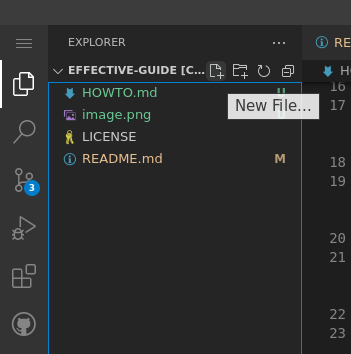
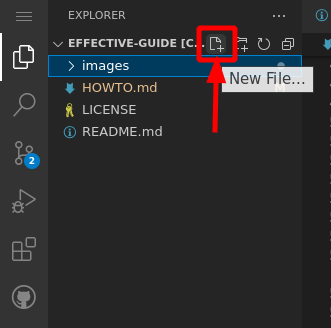
.

diff --git a/README.md b/README.md
@@ -2,7 +2,15 @@
 
 ## Где я?
 
-Перед тобой краткое введение в GitHub. Здесь ты узнаешь самое главное что тебе потребуется для выполнения дальнейшей работы в классе.
+Ты находишься в автоматически добавленом в твой аккаунт репозитории с заданием. Главная страница репозитория выглядит примерно так (с точностью до текста и цветовой темы):
+
+![Alt text](images/image.png)
+
+В данный момент из интересного в репозитории - два файла:
+1. `README.md` - файл, который ты сейчас читаешь. В нем написана общая информация о GitHub, Markdown, а также **ЗАДАНИЕ**, которое надо выполнить;
+2. `HOWTO.md` - файл с инструкциями по работе с GitHub и Codespaces (на какие кнопки жать и в каком порядке).
+
+А сейчас перед тобой краткое введение в GitHub. Здесь ты узнаешь самое главное что тебе потребуется для выполнения дальнейшей работы в классе.
 
 ## Git и GitHub
 
